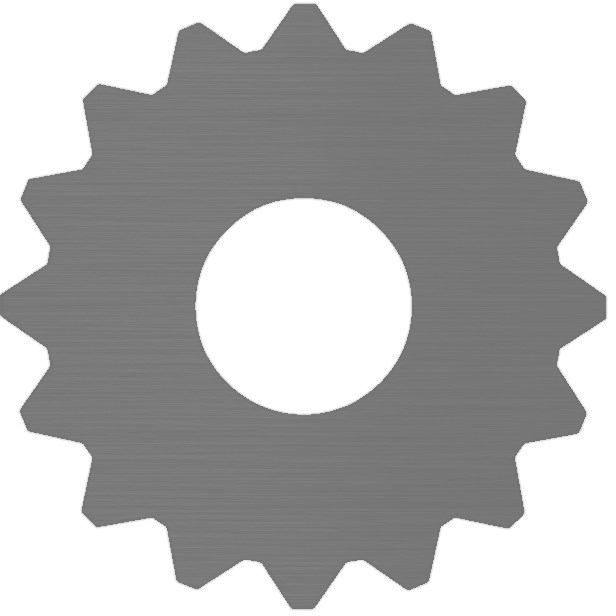
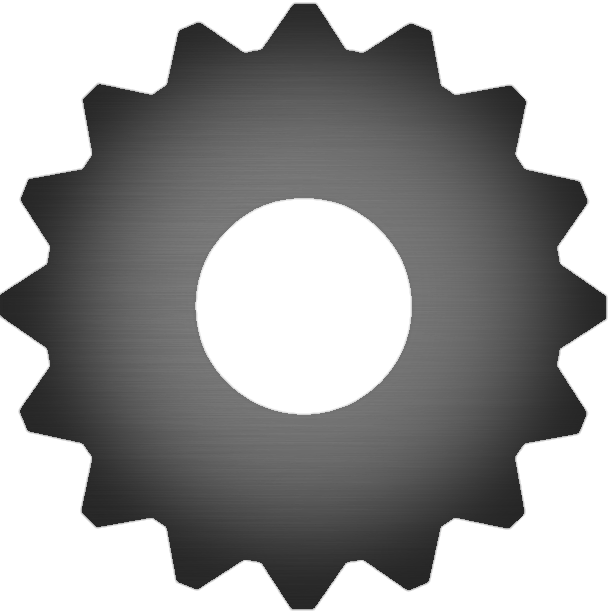
More blooming images!

diff --git a/mainPage.html b/mainPage.html
@@ -59,7 +59,7 @@
 --><div id="centre">
     <div id="Home">
       <!-- The logo of the page -->
-      <img id = "Logo" src="images/Logo.png" alt="Image could not be loaded">
+      <img id = "Logo" src="images/LogoGreyShadow.png" alt="Image could not be loaded">
     </div>
       
       
@@ -139,11 +139,11 @@
       
   </div><!--
 --><div id="right">
-   <img id = "SmallGear" src="images/SmallGear.svg" alt="Image could not be loaded" 
+   <img id = "SmallGear" src="images/SmallGear2.png" alt="Image could not be loaded" 
         data-start="transform:rotate(-20deg);transform-origin:center;" 
         data-end="transform:rotate(-202);">
       
-  <img id = "LargeGear" src="images/LargeGear.svg" alt="Image could not be loaded" 
+  <img id = "LargeGear" src="images/LargeGear2.png" alt="Image could not be loaded" 
         data-start="transform:rotate(0deg);transform-origin:center;" 
         data-end="transform:rotate(-120);">
       
